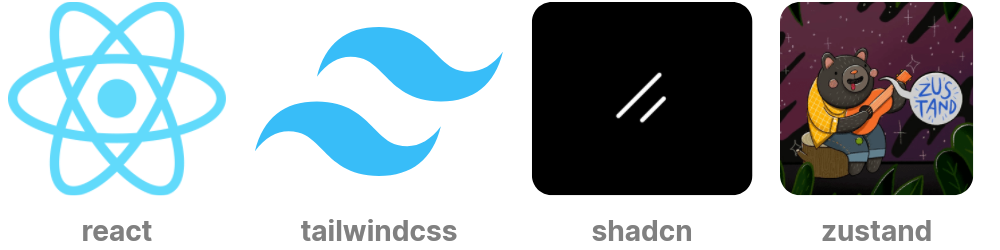
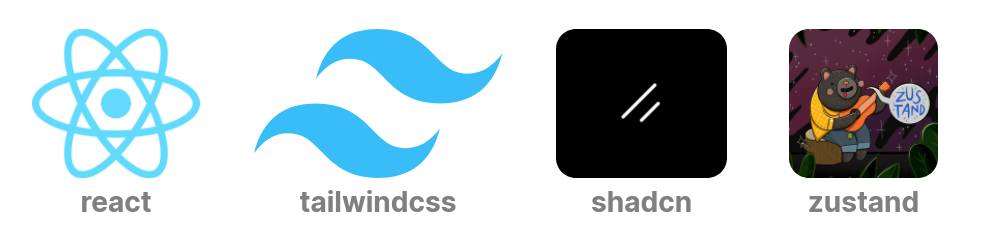
Add backend description, update frontend image

diff --git a/README.md b/README.md
@@ -18,7 +18,7 @@ This is also my class project for the Distributed Systems class (BIT 322) at Cav
 
 ![Frontend tools](./docs/readme/images/frontend.png)
 
-In the frontend, I used:
+On the frontend, I currently use:
 
 - [React](https://react.dev/)
 - [Tailwind](https://react.dev/) for css styles
@@ -26,6 +26,13 @@ In the frontend, I used:
 - [zustand](https://zustand.docs.pmnd.rs/getting-started/introduction) for application state
 
 ## Backend
+
+![Backend](./docs/readme/images/backend.png)
+
+On the backend, I currently use:
+
+- [Flask](https://flask.palletsprojects.com/en/stable/) for  the application server
+- [FlaskSQLAlchemy](https://flask-sqlalchemy.readthedocs.io/en/stable/), that uses [SQLAlchemy](https://www.sqlalchemy.org/) to communicate with a small [SQLite3](https://www.sqlite.org/index.html) database
 
 ## How to run the application (unix systems i.e. Linux and Mac)
 
